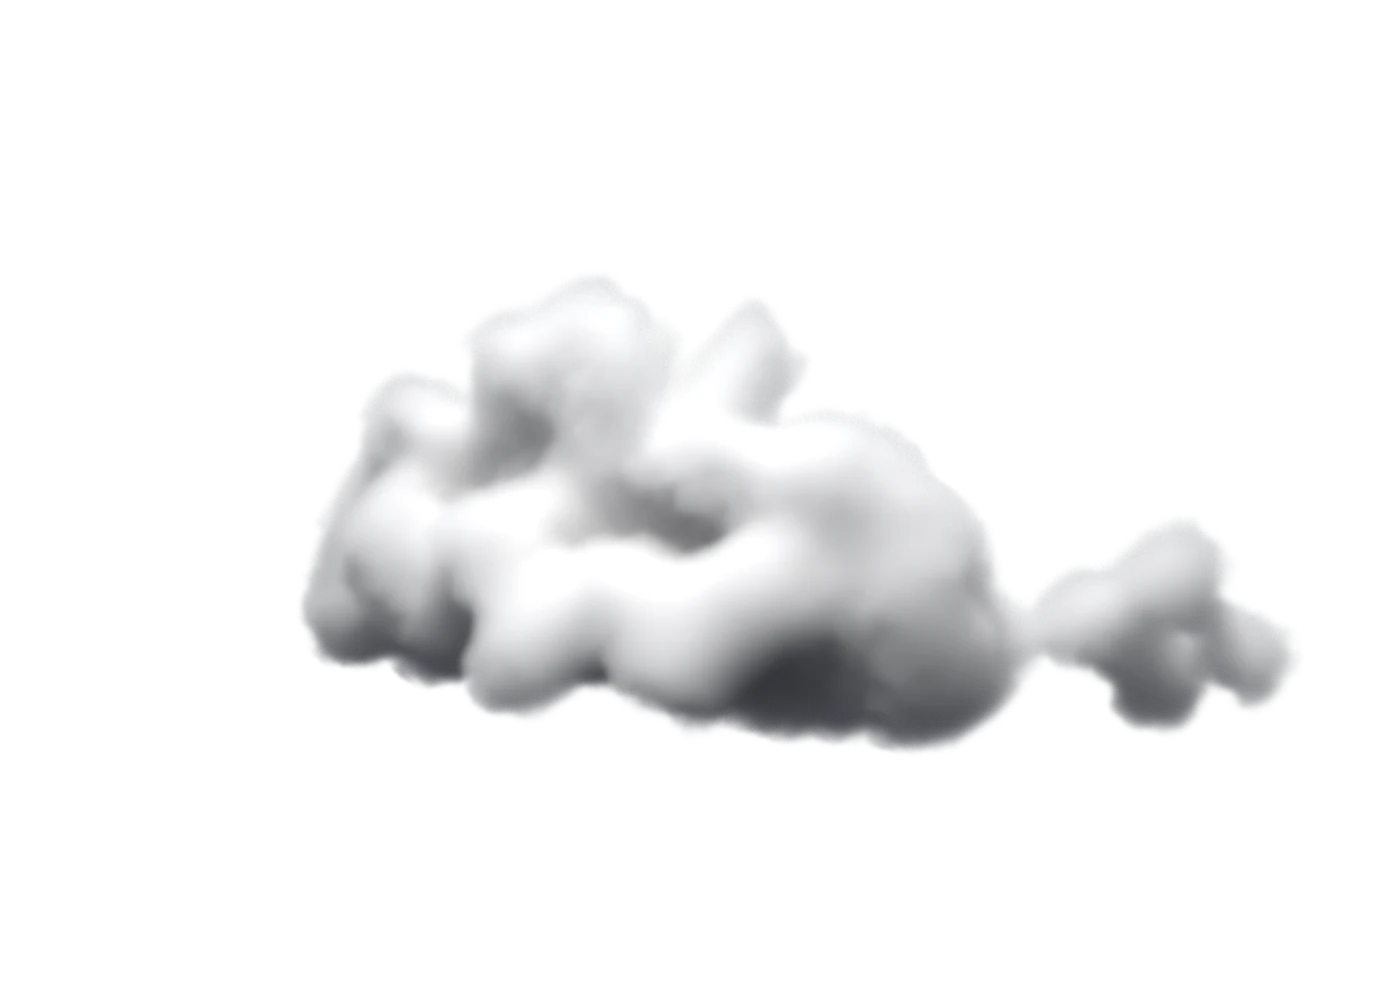
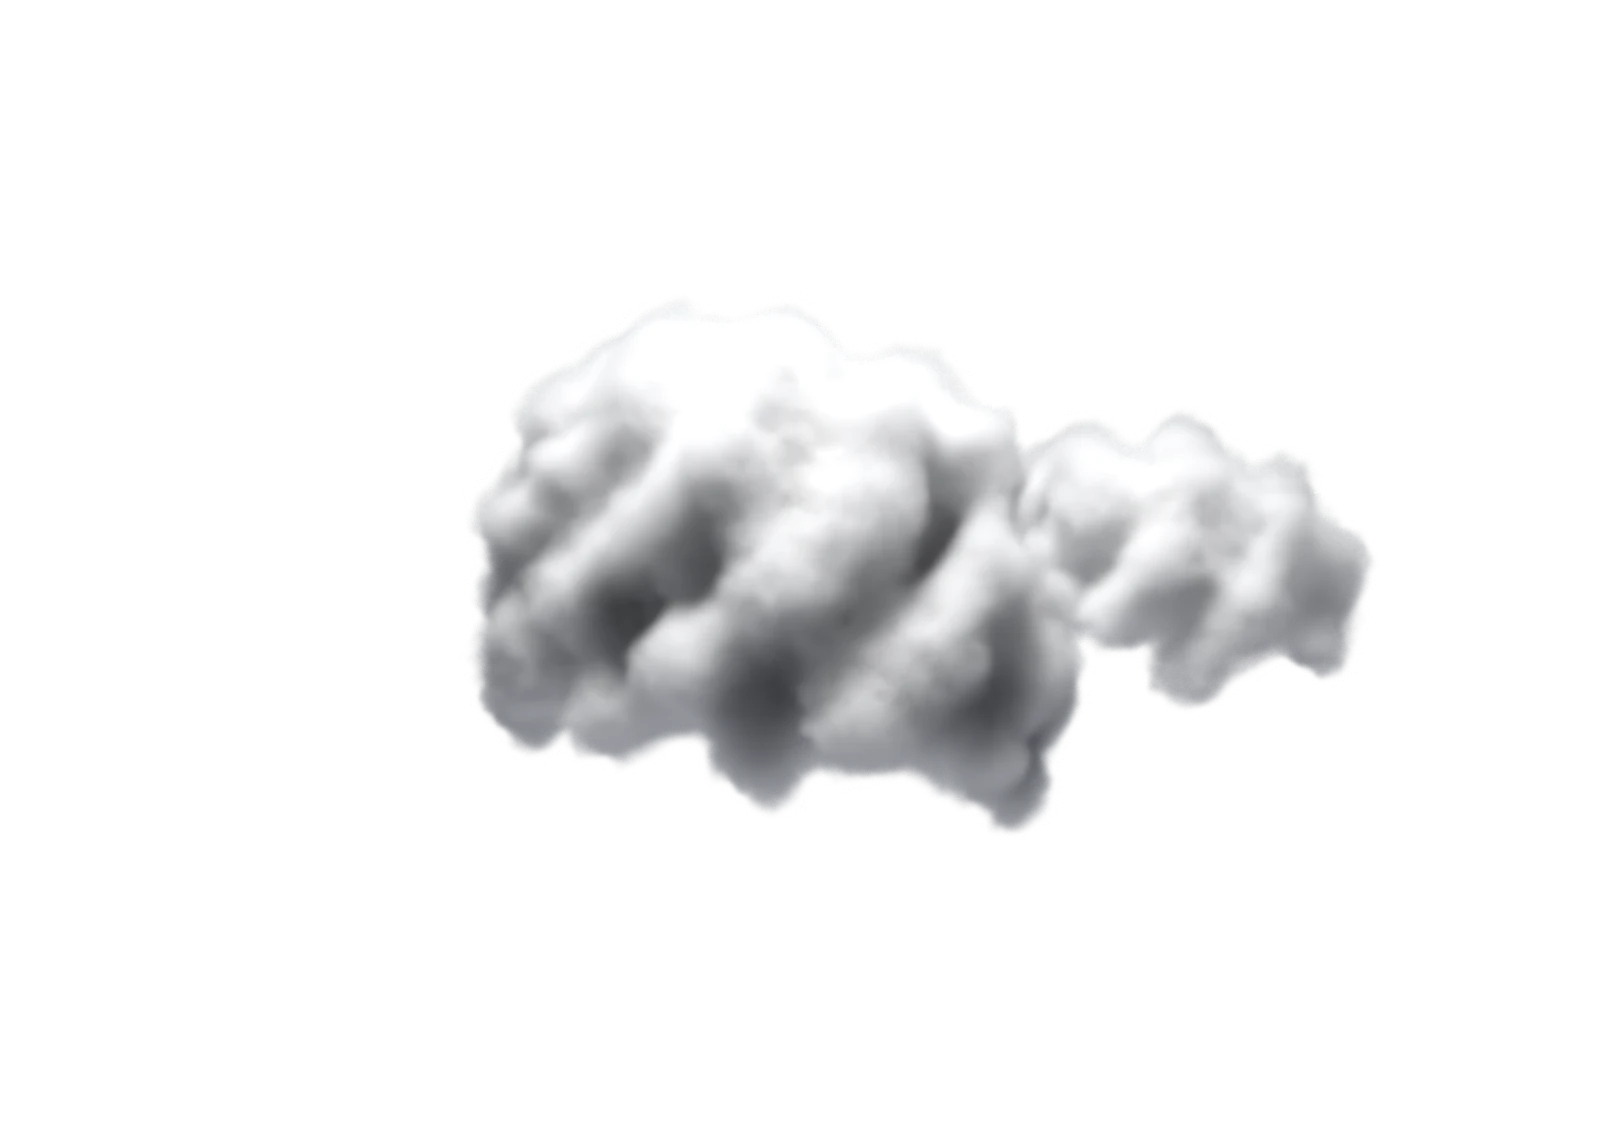
The cloud rebuilt as a cumulus dome: even lobes on an ellipsoid, a crisp fuzzy edge, a strong key above, the second cloud behind right

Changed region(s): [[0.215, 0.341, 0.9214, 0.775]]

diff --git a/index.html b/index.html
@@ -297,18 +297,19 @@
   }
   wet[0].style.backgroundImage = dew(3); wet[1].style.backgroundImage = dew(9);
 
-  // the cloud: three renders from Blender (tools/cloud_render.py: a pile of lobes as a real volume, lit by one lamp
-  // above), one per weather, cross-faded by the scroll; drawn inside the box and mirrored in the floor
-  var clouds = {}, cloudAt = { ox: 0, oy: 0.1, w: [1, 0, 0] };
+  // the cloud: three renders from Blender (tools/cloud_render.py: a dome of lobes as a real volume, a second cloud
+  // behind right, lit by one lamp above), one per weather, cross-faded by the scroll; drawn inside the box and
+  // mirrored in the floor. The render's centre is the main cloud's centre.
+  var clouds = {}, cloudAt = { ox: -0.04, oy: 0.05, w: [1, 0, 0] };
   ['calm', 'rain', 'sun'].forEach(function (k) { var im = new Image(); im.src = 'cloud_' + k + '.webp'; clouds[k] = im; });
   function renderCloud(wr, ws) {                       // once per frame: where the cloud is and which renders show
-    cloudAt.oy = 0.16 - 0.07 * wr + 0.03 * ws + (still ? 0 : Math.sin(t * 0.23) * 0.006);
-    cloudAt.ox = still ? 0 : Math.sin(t * 0.17) * 0.008;
+    cloudAt.oy = 0.05 - 0.06 * wr + 0.03 * ws + (still ? 0 : Math.sin(t * 0.23) * 0.006);
+    cloudAt.ox = -0.04 + (still ? 0 : Math.sin(t * 0.17) * 0.008);
     cloudAt.w = [Math.max(0, 1 - wr - ws), wr, ws];
   }
   function cloud(mirror) {
     var c = proj([cloudAt.ox, mirror ? -1 - cloudAt.oy : cloudAt.oy, 0]), base = ctx.globalAlpha, keys = ['calm', 'rain', 'sun'];
-    var w = 1.75 * S * c[3], h = w * 1000 / 1400;      // the renders cover 1.75 page units at the cloud's centre
+    var w = 1.64 * S * c[3], h = w * 1430 / 2000;      // the renders' frame drawn 1.64 box widths wide: the main cloud ~0.67
     ctx.save();
     if (mirror) { ctx.translate(c[0], c[1]); ctx.scale(1, -1); ctx.translate(-c[0], -c[1]); }
     for (var i = 0; i < 3; i++) {

diff --git a/tools/cloud_render.py b/tools/cloud_render.py
@@ -1,10 +1,16 @@
-"""The site's cloud, rendered in Blender Cycles as a real volume.
+"""The site's cloud, rendered in Blender Cycles as a real volume, after the reference (a compact cumulus heap in a glass box).
 
-A pile of metaball lobes (five big along the base, five in the middle, four small on top) becomes a mesh, the mesh
-a voxel volume, the volume is displaced by a noise texture for the cauliflower surface, and a Principled Volume
-scatters one area lamp from above. One render per weather state, transparent background.
+Shape: a heap of core metaball lobes (a flat base row, two rows above, a peak left of centre) with ~40 small lobes
+scattered over its upper surface for the cauliflower look, and a smaller, greyer cloud behind right. The metaball
+becomes a mesh, the mesh a hard-edged voxel volume (a thin interior band, so the edge is crisp, not fog); three
+Volume Displace layers tear the edge into lobes, cauliflower and fibre; the shader adds grain and cuts the base
+flat. A dense Principled Volume with many bounces scatters one strong area lamp from above: a near-white top, a
+grey base, shadowed creases. One render per weather state, transparent background.
 
-    blender -b --factory-startup -P tools/cloud_render.py -- --state calm --out cloud_calm.png [--size 1400 1000] [--samples 256]
+    blender -b --factory-startup -P tools/cloud_render.py -- --state calm --out cloud_calm.png [--size 1400 1000] [--samples 512]
+
+Framing: lens 55 at distance 9.6 covers 36/55*9.6 = 6.28 scene units = 2.09 page units across; the page draws
+the image 2.1 box widths wide, centred on the camera target (the main cloud's centre).
 """
 import math
 import sys
@@ -24,7 +30,7 @@ def opt(name, default, n=1):
 state = opt('--state', 'calm')
 out = opt('--out', 'cloud.png')
 size = [int(v) for v in opt('--size', ['1400', '1000'], 2)]
-samples = int(opt('--samples', '256'))
+samples = int(opt('--samples', '512'))
 S = 3.0                                                   # scene units per page unit
 
 bpy.ops.wm.read_factory_settings(use_empty=True)
@@ -38,9 +44,12 @@ for d in prefs.devices:
 scene.cycles.device = 'GPU'
 scene.cycles.samples = samples
 scene.cycles.use_denoising = True
-scene.cycles.volume_bounces = 8                           # light bouncing inside the cloud: the soft, luminous look
+scene.cycles.denoiser = 'OPENIMAGEDENOISE'
+scene.cycles.denoising_input_passes = 'RGB_ALBEDO_NORMAL'
+scene.cycles.denoising_prefilter = 'ACCURATE'
+scene.cycles.volume_bounces = 12                          # light bouncing inside the cloud: the white, luminous body
 scene.cycles.volume_max_steps = 1024
-scene.cycles.volume_step_rate = 0.5
+scene.cycles.volume_step_rate = 0.4
 scene.render.film_transparent = True
 scene.render.resolution_x, scene.render.resolution_y = size
 scene.render.resolution_percentage = 100
@@ -48,7 +57,7 @@ scene.render.image_settings.file_format = 'PNG'
 scene.render.image_settings.color_mode = 'RGBA'
 scene.render.filepath = out
 scene.view_settings.view_transform = 'Standard'
-scene.view_settings.exposure = -0.5
+scene.view_settings.exposure = float(opt('--exposure', {'calm': '0.0', 'rain': '-0.3', 'sun': '0.1'}[state]))
 
 
 def link(o):
@@ -56,8 +65,6 @@ def link(o):
     return o
 
 
-# the lobes (page units, y up), the same pile the page used
-lobes = []
 seed = 11
 
 
@@ -67,34 +74,48 @@ def rnd():
     return seed / 4294967296
 
 
-# the pile, after the reference: six round lobes along the base, six above, five, then three on top with the peak
-# left of centre; four bulges toward the camera; a small trailing cloud back right. A little jitter.
-def row(n, x0, x1, y, z, r, jz=0.04):
+def gauss():
+    return (rnd() + rnd() + rnd() - 1.5) * 1.6
+
+
+# a cloud (page units, y up, z toward the camera): a dome, wider than tall. Big lobes fill the inside; even-sized
+# lobes sit on the dome's surface at even spacing (a Fibonacci spread): the billows. ymin keeps the base a row of
+# lobes (nothing dangles below it); the peak leans left.
+def dome(cx, cy, cz, A, B, C, n, r0, rvar, ymin=-0.5, lean=-0.05, fill=0.16):
+    out = []
+    for x in (-0.6, -0.3, 0.0, 0.3, 0.6):
+        for z in (-0.4, 0.4):
+            for y in (-0.1, 0.35):
+                if x * x + y * y + z * z < 0.6:
+                    out.append((cx + x * A, cy + y * B, cz + z * C, fill * (A / 0.47)))
+    golden = math.pi * (3 - math.sqrt(5))
     for i in range(n):
-        x = x0 + (x1 - x0) * i / (n - 1)
-        lobes.append((x + (rnd() - 0.5) * 0.02, y + (rnd() - 0.5) * 0.02, z + (rnd() - 0.5) * jz * 2, r + rnd() * 0.015))
+        y = 1 - 2 * (i + 0.5) / n
+        if y < ymin:
+            continue
+        r = math.sqrt(1 - y * y)
+        phi = i * golden
+        x, z = math.cos(phi) * r, math.sin(phi) * r
+        rr = r0 + rnd() * rvar + 0.15 * r0 * max(0.0, y)
+        out.append((cx + x * A * 0.86 + lean * max(0.0, y) + (rnd() - 0.5) * 0.02, cy + y * B * 0.86 + (rnd() - 0.5) * 0.02,
+                    cz + z * C * 0.86 + (rnd() - 0.5) * 0.02, rr))
+    return out
 
 
-row(6, -0.34, 0.34, -0.06, 0.0, 0.13)
-row(6, -0.31, 0.31, 0.04, 0.0, 0.12, 0.06)
-row(5, -0.25, 0.25, 0.13, 0.0, 0.105)
-row(3, -0.12, 0.12, 0.215, 0.0, 0.085)
-lobes.append((-0.05, 0.255, 0.0, 0.07))
-row(4, -0.22, 0.22, 0.03, -0.14, 0.1)
-row(3, -0.16, 0.16, -0.04, -0.15, 0.1)
-for x, y, z, r in ((0.46, -0.02, 0.12, 0.11), (0.54, 0.04, 0.08, 0.09), (0.6, -0.03, 0.14, 0.085), (0.5, -0.08, 0.18, 0.09)):
-    lobes.append((x, y, z, r))
+lobes = dome(0.0, 0.1, 0.0, 0.46, 0.42, 0.3, 64, 0.1, 0.025)
+# the second cloud, behind right, smaller, in the main cloud's shadow
+lobes += dome(0.32, 0.1, -0.5, 0.3, 0.24, 0.2, 36, 0.08, 0.02, -0.4, -0.02, 0.12)
 
-flat = 0.82 if state == 'rain' else 1.0
-wide = 1.08 if state == 'rain' else 1.0
+flat = 0.86 if state == 'rain' else 1.0
+wide = 1.06 if state == 'rain' else 1.0
 mb = bpy.data.metaballs.new('cloud')
-mb.resolution = 0.045
-mb.threshold = 0.78
+mb.resolution = 0.04
+mb.threshold = 0.8
 mbo = link(bpy.data.objects.new('cloud', mb))
 for x, y, z, r in lobes:
     el = mb.elements.new()
-    el.co = (x * S * wide, z * S * wide, y * S * flat)
-    el.radius = r * S * 1.12
+    el.co = (x * S * wide, -z * S * wide, y * S * flat)   # Blender: x right, y away from the camera, z up
+    el.radius = r * S * 1.17
 bpy.context.view_layer.objects.active = mbo
 mbo.select_set(True)
 bpy.ops.object.convert(target='MESH')
@@ -105,45 +126,93 @@ vol = link(bpy.data.objects.new('cloudvol', bpy.data.volumes.new('cloudvol')))
 m2v = vol.modifiers.new('m2v', 'MESH_TO_VOLUME')
 m2v.object = mesh
 m2v.resolution_mode = 'VOXEL_AMOUNT'
-m2v.voxel_amount = 320
+m2v.voxel_amount = 380
 if hasattr(m2v, 'use_fill_volume'):
     m2v.use_fill_volume = True
-m2v.interior_band_width = 0.35
-tex = bpy.data.textures.new('fluff', 'CLOUDS')
-tex.noise_scale = 0.45
-tex.noise_depth = 3
-disp = vol.modifiers.new('fluff', 'VOLUME_DISPLACE')
-disp.texture = tex
-disp.strength = 0.13
-disp.texture_sample_radius = 0.3
-tex2 = bpy.data.textures.new('fine', 'CLOUDS')
-tex2.noise_scale = 0.14
-tex2.noise_depth = 4
-disp2 = vol.modifiers.new('fine', 'VOLUME_DISPLACE')
-disp2.texture = tex2
-disp2.strength = 0.09
-disp2.texture_sample_radius = 0.14
+m2v.interior_band_width = 0.23                            # a short fuzz at the edge, then full density
+
+
+def displace(name, scale, depth, strength, radius):
+    tex = bpy.data.textures.new(name, 'CLOUDS')
+    tex.noise_scale = scale
+    tex.noise_depth = depth
+    tex.noise_basis = 'ORIGINAL_PERLIN'
+    d = vol.modifiers.new(name, 'VOLUME_DISPLACE')
+    d.texture = tex
+    d.strength = strength
+    d.texture_sample_radius = radius
+    return d
+
+
+displace('lobes', 0.8, 2, 0.2, 0.2)                       # bends the big lobes out of their metaball roundness
+displace('cauli', 0.3, 3, 0.14, 0.08)                     # the cauliflower
+displace('fibre', 0.12, 3, 0.08, 0.03)                    # the fibre at the edge
 
 mat = bpy.data.materials.new('cloud')
 mat.use_nodes = True
-nodes = mat.node_tree.nodes
+nt = mat.node_tree
+nodes, links = nt.nodes, nt.links
 nodes.clear()
+attr = nodes.new('ShaderNodeAttribute')
+attr.attribute_name = 'density'
+# grain: a fine noise modulates the density (cotton texture inside the lobes)
+tc = nodes.new('ShaderNodeTexCoord')
+grain = nodes.new('ShaderNodeTexNoise')
+grain.inputs['Scale'].default_value = 3.4
+grain.inputs['Detail'].default_value = 10.0
+grain.inputs['Roughness'].default_value = 0.62
+grain.inputs['Lacunarity'].default_value = 2.3
+links.new(tc.outputs['Object'], grain.inputs['Vector'])
+gmap = nodes.new('ShaderNodeMapRange')
+gmap.inputs['From Min'].default_value = 0.42
+gmap.inputs['From Max'].default_value = 0.6
+gmap.inputs['To Min'].default_value = 0.3
+gmap.inputs['To Max'].default_value = 1.0
+links.new(grain.outputs['Fac'], gmap.inputs['Value'])
+# the flat base: the density fades out below z0 (scene units)
+sep = nodes.new('ShaderNodeSeparateXYZ')
+links.new(tc.outputs['Object'], sep.inputs['Vector'])
+base = nodes.new('ShaderNodeMapRange')
+z0 = -0.2 * S * flat
+base.inputs['From Min'].default_value = z0
+base.inputs['From Max'].default_value = z0 + 0.3
+base.inputs['To Min'].default_value = 0.0
+base.inputs['To Max'].default_value = 1.0
+links.new(sep.outputs['Z'], base.inputs['Value'])
+edge = nodes.new('ShaderNodeMath')                        # the fuzz band ramps up fast: dense just inside the edge
+edge.operation = 'POWER'
+edge.inputs[1].default_value = 0.6
+links.new(attr.outputs['Fac'], edge.inputs[0])
+m1 = nodes.new('ShaderNodeMath')
+m1.operation = 'MULTIPLY'
+links.new(edge.outputs['Value'], m1.inputs[0])
+links.new(gmap.outputs['Result'], m1.inputs[1])
+m2 = nodes.new('ShaderNodeMath')
+m2.operation = 'MULTIPLY'
+links.new(m1.outputs['Value'], m2.inputs[0])
+links.new(base.outputs['Result'], m2.inputs[1])
 pv = nodes.new('ShaderNodeVolumePrincipled')
-pv.inputs['Density'].default_value = {'calm': 70.0, 'rain': 85.0, 'sun': 62.0}[state]
-pv.inputs['Anisotropy'].default_value = 0.3
+pv.inputs['Anisotropy'].default_value = 0.35
 pv.inputs['Color'].default_value = (1.0, 1.0, 1.0, 1.0)
+m3 = nodes.new('ShaderNodeMath')                          # the density: attribute x grain x base cut x the state's density
+m3.operation = 'MULTIPLY'
+m3.inputs[1].default_value = {'calm': 160.0, 'rain': 190.0, 'sun': 150.0}[state]
+links.new(m2.outputs['Value'], m3.inputs[0])
+links.new(m3.outputs['Value'], pv.inputs['Density'])
 outn = nodes.new('ShaderNodeOutputMaterial')
-mat.node_tree.links.new(pv.outputs['Volume'], outn.inputs['Volume'])
+links.new(pv.outputs['Volume'], outn.inputs['Volume'])
 vol.data.materials.append(mat)
 
-# the camera: the box's view, 34 degrees round, 11 degrees down
+# the camera: the box's view, 34 degrees round, 9 degrees down, far enough that the perspective is gentle
 cam = bpy.data.cameras.new('cam')
-cam.lens = 60
+cam.lens = 55
 camo = link(bpy.data.objects.new('cam', cam))
-yaw, pitch, dist = math.radians(34), math.radians(9), 7.0
-camo.location = (math.sin(yaw) * math.cos(pitch) * dist, -math.cos(yaw) * math.cos(pitch) * dist, math.sin(pitch) * dist + 0.15 * S)
+yaw, pitch, dist = math.radians(34), math.radians(9), 9.6
+target = (0.04 * S, 0.0, 0.17 * S)                        # the main cloud's visual centre
+camo.location = (target[0] + math.sin(yaw) * math.cos(pitch) * dist, target[1] - math.cos(yaw) * math.cos(pitch) * dist,
+                 target[2] + math.sin(pitch) * dist)
 tgt = link(bpy.data.objects.new('tgt', None))
-tgt.location = (0.08 * S, 0, 0.08 * S)
+tgt.location = target
 c = camo.constraints.new('TRACK_TO')
 c.target = tgt
 c.track_axis = 'TRACK_NEGATIVE_Z'
@@ -151,11 +220,16 @@ c.up_axis = 'UP_Y'
 scene.camera = camo
 
 
-def lamp(name, loc, energy, colour, sz, look=(0, 0, 0)):
-    ld = bpy.data.lights.new(name, 'AREA')
+def lamp(name, loc, energy, colour, sz, look=(0, 0, 0), spot=None):
+    ld = bpy.data.lights.new(name, 'SPOT' if spot else 'AREA')
     ld.energy = energy
     ld.color = colour
-    ld.size = sz
+    if spot:
+        ld.spot_size = math.radians(spot)
+        ld.spot_blend = 0.4
+        ld.shadow_soft_size = sz
+    else:
+        ld.size = sz
     lo = link(bpy.data.objects.new(name, ld))
     lo.location = loc
     t = link(bpy.data.objects.new(name + '_t', None))
@@ -167,16 +241,21 @@ def lamp(name, loc, energy, colour, sz, look=(0, 0, 0)):
     return lo
 
 
+top, aim = (0.4, -0.9, 10.0), (0.1, 0.0, 0.5)             # the studio lamp: a spot above the main cloud; the back cloud in its penumbra
+cone = 42.0
 if state == 'calm':
-    lamp('key', (0.8, -2.2, 9.0), 2600, (1.0, 1.0, 1.0), 2.6)
-    lamp('fill', (0.0, -9.0, 2.0), 160, (0.9, 0.93, 1.0), 8.0)
+    lamp('key', top, 7000, (1.0, 1.0, 1.0), 1.2, aim, cone)
+    lamp('fill', (0.0, -10.0, 1.5), 60, (0.9, 0.93, 1.0), 9.0)
+    lamp('bounce', (0.0, 0.0, -6.0), 200, (0.92, 0.94, 1.0), 6.0, (0, 0, 0))
 elif state == 'rain':
-    lamp('key', (0.8, -2.2, 9.0), 900, (0.72, 0.8, 0.95), 3.2)
-    lamp('fill', (0.0, -9.0, 2.0), 80, (0.7, 0.78, 0.95), 8.0)
+    lamp('key', top, 2600, (0.74, 0.81, 0.95), 1.5, aim, cone + 4)
+    lamp('fill', (0.0, -10.0, 1.5), 50, (0.7, 0.78, 0.95), 9.0)
+    lamp('bounce', (0.0, 0.0, -6.0), 120, (0.8, 0.85, 1.0), 6.0, (0, 0, 0))
 else:
-    lamp('key', (0.8, -2.2, 9.0), 3800, (1.0, 0.86, 0.62), 2.6)
-    lamp('rim', (-1.0, 4.0, 7.0), 2600, (1.0, 0.8, 0.5), 2.0)
-    lamp('fill', (0.0, -9.0, 2.0), 140, (1.0, 0.9, 0.78), 8.0)
+    lamp('key', top, 9000, (1.0, 0.88, 0.66), 1.2, aim, cone)
+    lamp('rim', (-1.5, 5.0, 7.5), 4000, (1.0, 0.8, 0.5), 2.4, (0, 0, 0.4))
+    lamp('fill', (0.0, -10.0, 1.5), 80, (1.0, 0.9, 0.78), 9.0)
+    lamp('bounce', (0.0, 0.0, -6.0), 300, (1.0, 0.9, 0.75), 6.0, (0, 0, 0))
 
 world = bpy.data.worlds.new('w')
 scene.world = world
@@ -186,4 +265,4 @@ bg.inputs['Color'].default_value = (0.05, 0.055, 0.07, 1.0)
 bg.inputs['Strength'].default_value = {'calm': 1.0, 'rain': 0.6, 'sun': 1.2}[state]
 
 bpy.ops.render.render(write_still=True)
-print('[cloud] rendered', state, size, samples, '->', out)
+print('[cloud] rendered', state, size, samples, 'lobes', len(lobes), '->', out)
